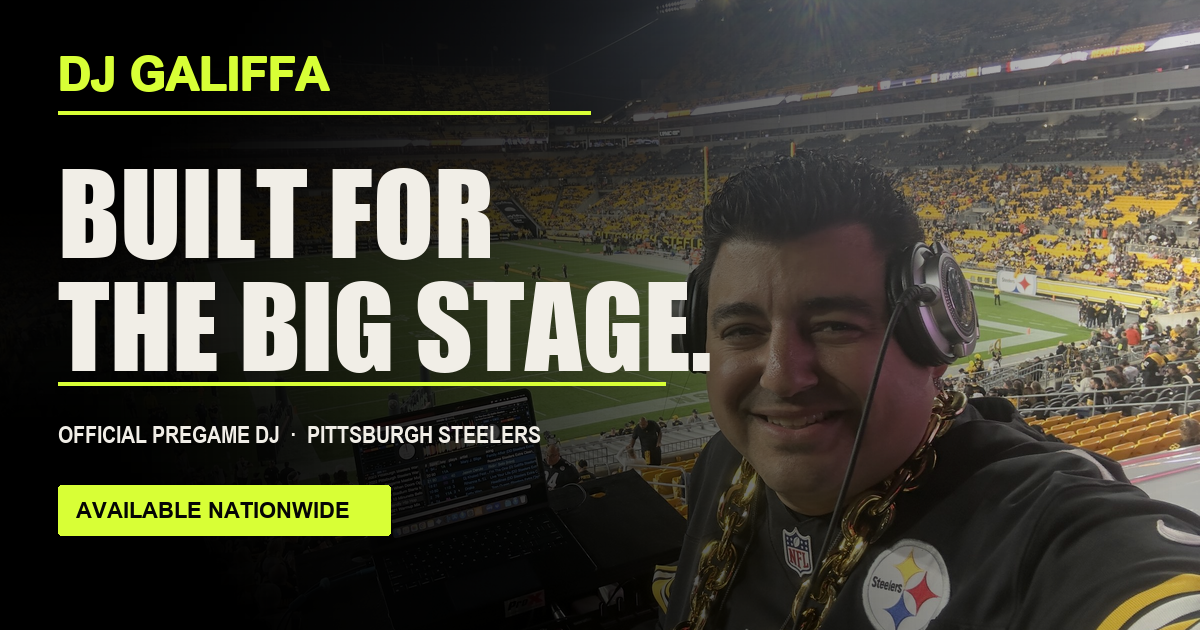
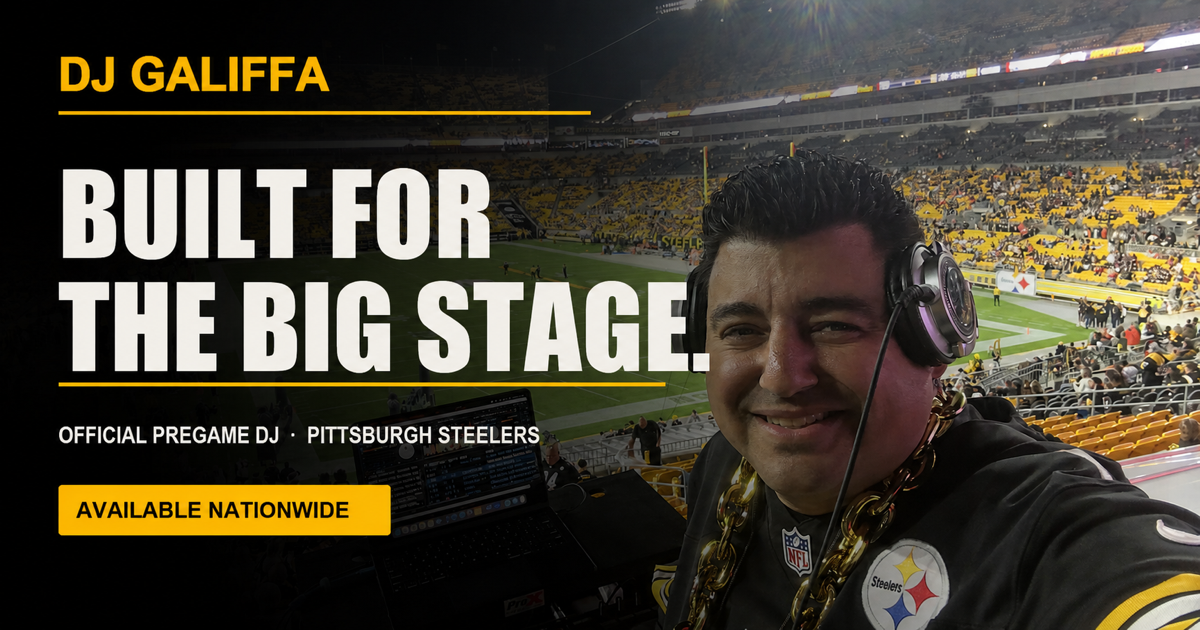
Replace neon palette with Steelers gold

diff --git a/app/globals.css b/app/globals.css
@@ -2,12 +2,13 @@
 
 :root {
   --black: #050505;
-  --ink: #0b0b0c;
-  --paper: #f1eee7;
-  --paper-soft: #d7d3ca;
-  --acid: #d8ff36;
-  --gold: #f4b926;
-  --red: #ff3f36;
+  --ink: #0c0c0d;
+  --paper: #f4f0e6;
+  --paper-soft: #d8d3c7;
+  --gold: #ffb612;
+  --gold-deep: #755000;
+  --steel: #a5acaf;
+  --gunmetal: #242628;
   --line: rgba(255, 255, 255, 0.18);
   --font-geist-sans: "Helvetica Neue", Helvetica, Arial, sans-serif;
   --font-geist-mono: "SFMono-Regular", Consolas, "Liberation Mono", monospace;
@@ -44,7 +45,7 @@ body::before {
 }
 
 ::selection {
-  background: var(--acid);
+  background: var(--gold);
   color: var(--black);
 }
 
@@ -64,7 +65,7 @@ a {
 }
 
 a:focus-visible {
-  outline: 3px solid var(--acid);
+  outline: 3px solid var(--gold);
   outline-offset: 4px;
 }
 
@@ -95,7 +96,7 @@ a:focus-visible {
 }
 
 .brand-kicker {
-  color: var(--acid);
+  color: var(--gold);
   font-size: 0.55em;
   letter-spacing: 0.04em;
 }
@@ -117,7 +118,7 @@ a:focus-visible {
 
 .site-nav a:hover,
 .social-links a:hover {
-  color: var(--acid);
+  color: var(--gold);
 }
 
 .header-cta {
@@ -202,11 +203,11 @@ a:focus-visible {
   width: 34px;
   height: 2px;
   content: "";
-  background: var(--acid);
+  background: var(--gold);
 }
 
 .eyebrow span {
-  color: var(--acid);
+  color: var(--gold);
 }
 
 .hero h1,
@@ -230,7 +231,7 @@ a:focus-visible {
 }
 
 .hero h1 em {
-  color: var(--acid);
+  color: var(--gold);
   font-style: normal;
 }
 
@@ -272,8 +273,8 @@ a:focus-visible {
 }
 
 .button--primary {
-  border-color: var(--acid);
-  background: var(--acid);
+  border-color: var(--gold);
+  background: var(--gold);
   color: var(--black);
 }
 
@@ -315,7 +316,7 @@ a:focus-visible {
 }
 
 .hero-rail strong {
-  color: var(--acid);
+  color: var(--gold);
   font-family: Impact, Haettenschweiler, "Arial Narrow Bold", sans-serif;
   font-size: clamp(2.2rem, 3.5vw, 4.1rem);
   font-weight: 400;
@@ -335,7 +336,7 @@ a:focus-visible {
 .ticker {
   overflow: hidden;
   border-bottom: 1px solid #151515;
-  background: var(--acid);
+  background: var(--gold);
   color: var(--black);
 }
 
@@ -375,7 +376,7 @@ a:focus-visible {
 }
 
 .section-kicker {
-  color: var(--acid);
+  color: var(--gold);
 }
 
 .story {
@@ -390,7 +391,7 @@ a:focus-visible {
 }
 
 .story .section-kicker {
-  color: #7b8c00;
+  color: var(--gold-deep);
 }
 
 .story h2,
@@ -405,11 +406,11 @@ a:focus-visible {
 .steelers-copy h2 span,
 .press h2 span,
 .contact h2 span {
-  color: var(--acid);
+  color: var(--gold);
 }
 
 .story h2 span {
-  color: #8b9d00;
+  color: var(--gold-deep);
 }
 
 .story-columns {
@@ -502,7 +503,7 @@ a:focus-visible {
 }
 
 .quote-break blockquote span {
-  color: var(--acid);
+  color: var(--gold);
 }
 
 .formats {
@@ -569,7 +570,7 @@ a:focus-visible {
 }
 
 .format-card:hover {
-  background: var(--acid);
+  background: var(--gold);
   color: var(--black);
 }
 
@@ -579,7 +580,7 @@ a:focus-visible {
 }
 
 .format-card > span {
-  color: var(--acid);
+  color: var(--gold);
   font-family: var(--font-geist-mono), monospace;
   font-size: 0.7rem;
   font-weight: 800;
@@ -619,7 +620,7 @@ a:focus-visible {
   display: grid;
   grid-template-columns: minmax(0, 1.3fr) minmax(380px, 0.7fr);
   min-height: 760px;
-  background: var(--acid);
+  background: var(--gold);
   color: var(--black);
 }
 
@@ -689,7 +690,7 @@ a:focus-visible {
 }
 
 .career .section-kicker {
-  color: #7b8c00;
+  color: var(--gold-deep);
 }
 
 .section-heading--compact {
@@ -697,7 +698,7 @@ a:focus-visible {
 }
 
 .section-heading--compact h2 span {
-  color: #8b9d00;
+  color: var(--gold-deep);
 }
 
 .career-list {
@@ -717,7 +718,7 @@ a:focus-visible {
 }
 
 .career-list > li > strong {
-  color: #7b8c00;
+  color: var(--gold-deep);
   font-family: Impact, Haettenschweiler, "Arial Narrow Bold", sans-serif;
   font-size: clamp(4rem, 8vw, 8rem);
   font-weight: 400;
@@ -789,32 +790,32 @@ a:focus-visible {
 
 .press {
   grid-template-columns: minmax(100px, 0.35fr) minmax(0, 0.7fr) minmax(330px, 0.95fr);
-  background: var(--red);
-  color: var(--black);
+  background: var(--gunmetal);
+  color: var(--paper);
 }
 
 .press .section-number {
-  color: rgba(0, 0, 0, 0.52);
+  color: rgba(255, 255, 255, 0.48);
 }
 
 .press .section-kicker {
-  color: var(--black);
+  color: var(--gold);
 }
 
 .press h2 span {
-  color: #fff;
+  color: var(--steel);
 }
 
 .press-copy > p:last-child {
   max-width: 590px;
   margin: 2rem 0 0;
-  color: rgba(0, 0, 0, 0.72);
+  color: rgba(255, 255, 255, 0.7);
   line-height: 1.7;
 }
 
 .press-downloads {
   align-self: end;
-  border-top: 2px solid var(--black);
+  border-top: 2px solid var(--paper);
 }
 
 .press-downloads a {
@@ -823,7 +824,7 @@ a:focus-visible {
   justify-content: space-between;
   gap: 2rem;
   padding: 1.7rem 0;
-  border-bottom: 1px solid rgba(0, 0, 0, 0.36);
+  border-bottom: 1px solid rgba(255, 255, 255, 0.28);
   transition: padding 180ms ease;
 }
 
